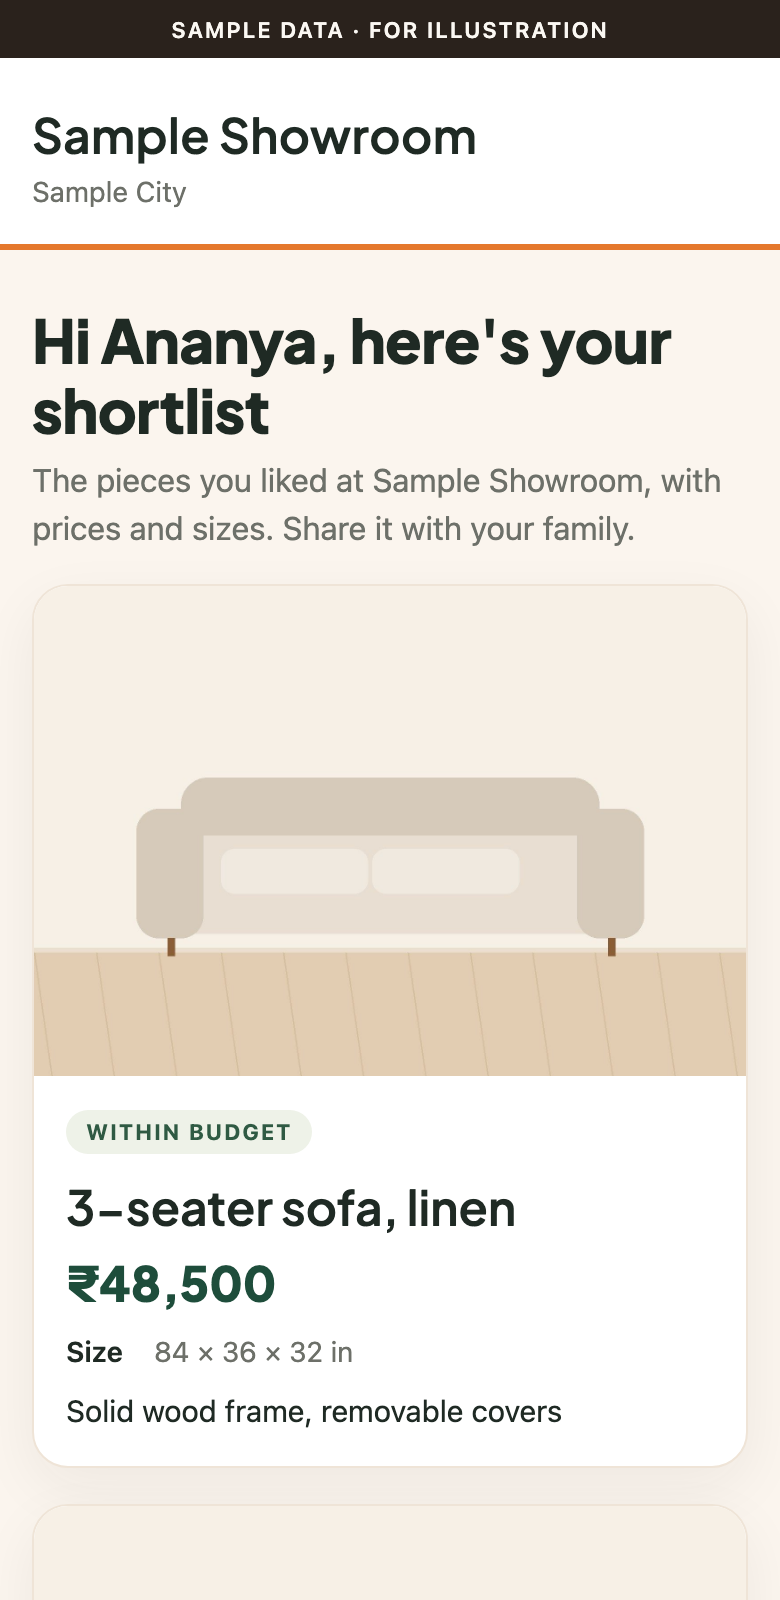
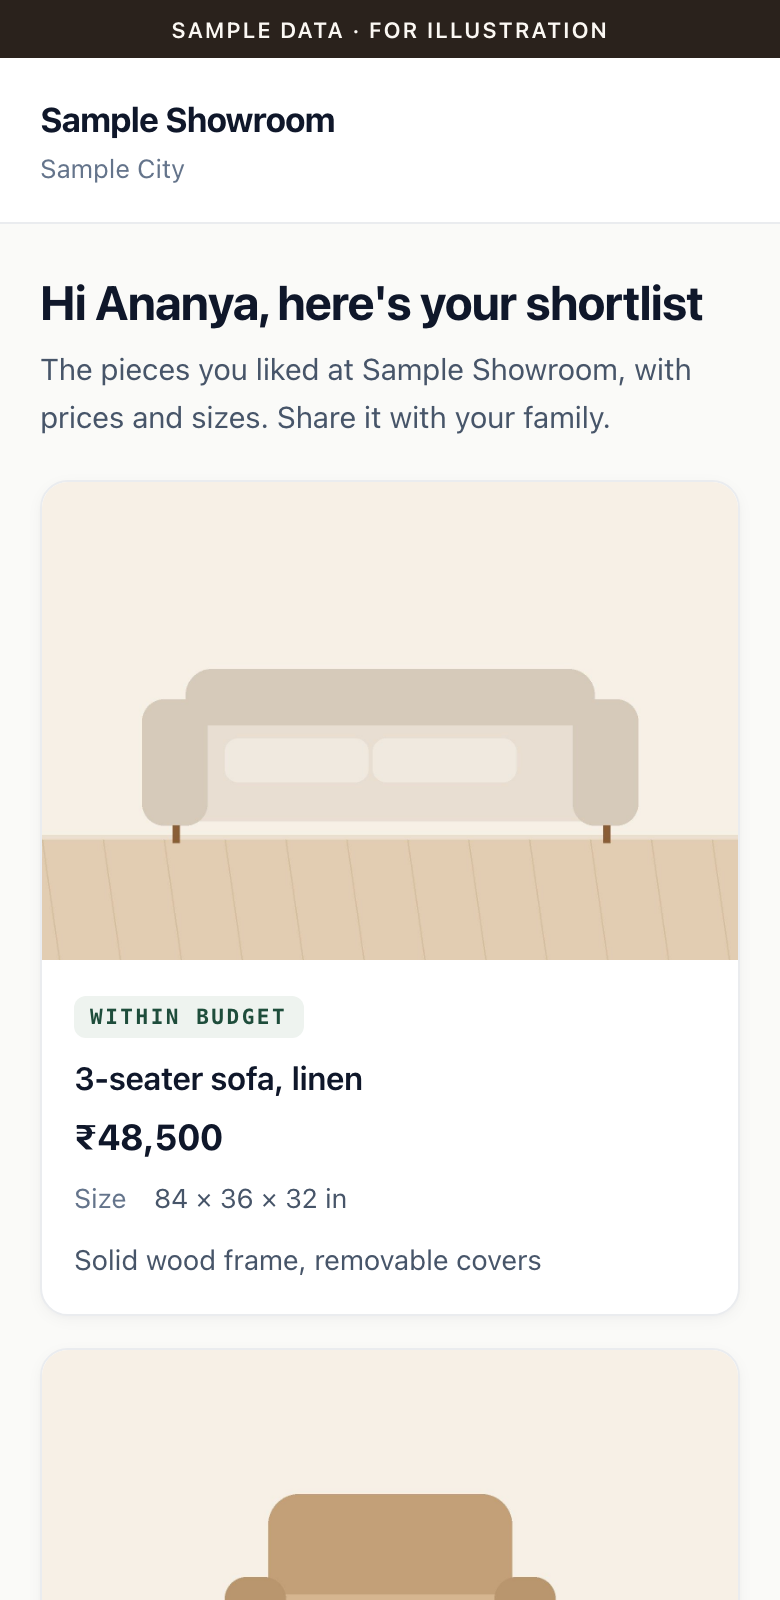
FurniTrail restyle, new screens, cleanup
FurniTrail sections in system type and site neutrals (green buttons, orange logo and
highlight only) with the re-captured phone screens; unused image removed.

diff --git a/assets/css/main.css b/assets/css/main.css
@@ -1800,7 +1800,7 @@ main table th { background: #F8FAFC; color: #1A1D24; }
    PRODUCT THEMES (2026-11-17): each product shows in its own app colours.
    Ideator pages stay white and grey; gold only on the logo dot and menu glow.
    ========================================================================= */
-[data-product="furnitrail"] { --p: #1E4D3B; --p-ink: #1F2A24; --p-soft: #FBF5EE; --p-line: #C9D3BD; --p-accent: #E5782C; --p-tag: #EEF2E8; }
+[data-product="furnitrail"] { --p: #1E4D3B; --p-ink: #14161B; --p-soft: #F8FAFC; --p-line: #E5E7EB; --p-accent: #E5782C; --p-tag: #EEF2E8; }
 [data-product="pollenrev"]  { --p: #3563D5; --p-ink: #1D3F73; --p-soft: #EEF3FD; --p-line: #B9DCFF; }
 [data-product] .btn-hero-primary { background: var(--p) !important; box-shadow: 0 8px 20px -10px var(--p); }
 [data-product] .btn-hero-primary:hover { background: var(--p-ink) !important; }
@@ -1877,7 +1877,7 @@ main [style*="font-family:var(--font-mono)"]:not([style*="background"]):not(code
 .pm-mark { display: block; flex: none; border-radius: 12px; }
 .pm-mark-tile { background: #FFFFFF; border: 1px solid #DCE6F8; padding: 4px; box-sizing: border-box; }
 .pm-word { font-weight: 700; letter-spacing: -0.02em; line-height: 1; }
-.pm-furnitrail { font-family: "Plus Jakarta Sans", var(--font-sans); font-weight: 800; letter-spacing: -0.02em; color: #1E4D3B; }
+.pm-furnitrail { font-family: var(--font-sans); font-weight: 700; letter-spacing: -0.02em; color: #14161B; }
 .pm-furnitrail span { color: #E5782C; }
 .pm-pollenrev { font-family: Georgia, "Iowan Old Style", serif; font-weight: 600; letter-spacing: -0.01em; color: #0A1F3D; }
 .pm-pollenrev span { color: #3563D5; }
@@ -1897,12 +1897,12 @@ main [style*="font-family:var(--font-mono)"]:not([style*="background"]):not(code
 .cta-choice-plus { width: 36px; height: 36px; flex: none; border-radius: 10px; border: 1.5px dashed #94A3B8; display: flex; align-items: center; justify-content: center; font-size: 20px; color: #475569; }
 
 /* FurniTrail: forest green + orange on cream, heavy sans headings (its own brand) */
-[data-product="furnitrail"] :is(h1.sec-title, h2.sec-title, h2, h3) { font-family: "Plus Jakarta Sans", var(--font-sans); font-weight: 800; letter-spacing: -0.02em; color: #1F2A24; }
+[data-product="furnitrail"] :is(h1.sec-title, h2.sec-title, h2, h3) { font-family: var(--font-sans); font-weight: 800; letter-spacing: -0.02em; color: #1F2A24; }
 [data-product="furnitrail"] .btn-hero-primary { background: #1E4D3B !important; box-shadow: 0 8px 20px -10px rgba(30, 77, 59, 0.6); }
 [data-product="furnitrail"] .btn-hero-primary:hover { background: #163A2C !important; }
-[data-product="furnitrail"] .sec-eyebrow { color: #E5782C !important; }
+[data-product="furnitrail"] .sec-eyebrow { color: #64748B !important; }
 [data-product="furnitrail"] .badge-pill, [data-product="furnitrail"] .pill-badge { color: #1E4D3B !important; }
-.ft-hl { color: #E5782C; background-image: linear-gradient(transparent 72%, rgba(229, 120, 44, 0.22) 72%); padding: 0 2px; }
+.ft-hl { color: #A94F16; background-image: linear-gradient(transparent 72%, rgba(229, 120, 44, 0.18) 72%); padding: 0 2px; }
 
 /* Screenshot frames: a quiet browser window around real product screens */
 .shot-frame { margin: 0; border-radius: 14px; overflow: hidden; background: #FFFFFF; border: 1px solid var(--p-line, #E5E7EB); box-shadow: 0 24px 50px -30px rgba(15, 23, 42, 0.45); }
@@ -1934,15 +1934,15 @@ main [style*="font-family:var(--font-mono)"]:not([style*="background"]):not(code
   transition: transform 0.5s cubic-bezier(0.16, 1, 0.3, 1);
 }
 .phone::before { content: ""; position: absolute; top: 18px; left: 50%; width: 64px; height: 6px; border-radius: 6px; transform: translateX(-50%); background: rgba(255, 255, 255, 0.14); z-index: 2; }
-.phone img { display: block; width: 100%; height: auto; border-radius: 29px; background: #FBF5EE; padding-top: 22px; box-sizing: border-box; }
+.phone img { display: block; width: 100%; height: auto; border-radius: 29px; background: #FFFFFF; padding-top: 22px; box-sizing: border-box; }
 .phone-card:hover .phone { transform: translateY(-6px); }
 .sample-chip {
   position: absolute; z-index: 3; top: 38px; right: 22px; font-size: 10.5px; font-weight: 600;
   color: #FFFFFF; background: rgba(31, 42, 36, 0.78); padding: 3px 8px; border-radius: 6px; letter-spacing: 0.01em;
 }
 .phone-card figcaption { margin-top: 22px; padding: 0 4px; font-size: 14.5px; line-height: 1.55; color: var(--text-secondary); }
-.phone-card figcaption strong { display: block; font-size: 17px; color: var(--text-primary); margin: 2px 0 4px; font-family: "Plus Jakarta Sans", var(--font-sans); font-weight: 800; letter-spacing: -0.01em; }
-.phone-kicker { font-family: Georgia, "Iowan Old Style", serif; font-style: italic; color: #E5782C; font-size: 15px; }
+.phone-card figcaption strong { display: block; font-size: 17px; color: var(--text-primary); margin: 2px 0 4px; font-family: var(--font-sans); font-weight: 800; letter-spacing: -0.01em; }
+.phone-kicker { font-family: Georgia, "Iowan Old Style", serif; font-style: italic; color: #64748B; font-size: 15px; }
 @media (max-width: 820px) {
   .phone-trio { grid-template-columns: 1fr; max-width: 340px; margin: 0 auto; gap: 48px; }
   .phone-card.is-raised { transform: none; }
@@ -2021,7 +2021,7 @@ a.blog-card:hover { transform: translateY(-3px); border-color: #CBD5E1; box-shad
 .blog-card-big .blog-card-title { font-size: clamp(22px, 2.6vw, 30px); }
 .blog-card-big .blog-card-dek { font-size: 16px; max-width: 70ch; }
 .blog-card-next { background: var(--bg-secondary); border-style: dashed; }
-.blog-card[data-cluster="furnitrail"] .blog-card-topic { color: #E5782C; }
+.blog-card[data-cluster="furnitrail"] .blog-card-topic { color: #A94F16; }
 .blog-card[data-cluster="pollenrev"] .blog-card-topic { color: #3563D5; }
 .post-related { margin-top: 48px; padding-top: 28px; border-top: 1px solid var(--border-light); }
 .post-related-head { display: flex; justify-content: space-between; align-items: baseline; gap: 12px; flex-wrap: wrap; margin-bottom: 14px; }

diff --git a/index.html b/index.html
@@ -24,7 +24,7 @@
   <meta name="theme-color" content="#FFFFFF">
 
   <!-- Stylesheet -->
-  <link rel="stylesheet" href="assets/css/main.css?v=20261117zd">
+  <link rel="stylesheet" href="assets/css/main.css?v=20261117ze">
 
   <!-- Structured Data (JSON-LD) -->
   <script type="application/ld+json">
@@ -372,7 +372,7 @@
 
         <!-- Middle featured card: FurniTrail -->
         <div class="prod-featured-box reveal reveal-scale delay-1" data-product="furnitrail">
-          <div class="prod-featured-img-wrap" style="background:#FBF5EE;">
+          <div class="prod-featured-img-wrap" style="background:#F8FAFC;">
             <img src="assets/images/products/furnitrail/furnitrail-today-app.png" alt="FurniTrail Today screen listing buyers to follow up (sample data)" loading="lazy" style="width:100%;height:100%;object-fit:cover;object-position:top center;display:block;">
             <span class="badge-float-left" style="background:rgba(26,29,36,0.92);">Early access open</span>
           </div>
@@ -623,6 +623,6 @@
     </div>
   </div>
 
-  <script src="assets/js/main.js?v=20261117zd"></script>
+  <script src="assets/js/main.js?v=20261117ze"></script>
 </body>
 </html>

diff --git a/blog/d2c-true-margin-per-order.html b/blog/d2c-true-margin-per-order.html
@@ -19,7 +19,7 @@
   <meta name="twitter:title" content="Your D2C brand's real problem isn't ads, it's true margin per order">
   <meta name="twitter:description" content="Many D2C brands can't see what each order earns after product, shipping, fees, returns and ads. How to work out true margin per order before you scale.">
   <meta name="twitter:image" content="https://ideatorlabs.github.io/og-image.png">
-  <link rel="stylesheet" href="../assets/css/main.css?v=20261117zd">
+  <link rel="stylesheet" href="../assets/css/main.css?v=20261117ze">
   <link rel="icon" href="../favicon.ico" sizes="any">
   <link rel="icon" href="/favicon.svg" type="image/svg+xml">
   <link rel="apple-touch-icon" href="../apple-touch-icon.png">
@@ -392,7 +392,7 @@
     </div>
   </div>
 
-  <script src="../assets/js/main.js?v=20261117zd"></script>
+  <script src="../assets/js/main.js?v=20261117ze"></script>
   <script>
     // Reading Progress Indicator
     window.addEventListener('scroll', () => {

diff --git a/blog/ca-firms-reclaim-hours-with-ai.html b/blog/ca-firms-reclaim-hours-with-ai.html
@@ -19,7 +19,7 @@
   <meta name="twitter:title" content="Where CA firms lose hours every week, and how AI gives them back">
   <meta name="twitter:description" content="CA firms lose hours to GST matching, chasing client documents and typing entries twice. Where the time goes, what AI can take over, and how to start.">
   <meta name="twitter:image" content="https://ideatorlabs.github.io/og-image.png">
-  <link rel="stylesheet" href="../assets/css/main.css?v=20261117zd">
+  <link rel="stylesheet" href="../assets/css/main.css?v=20261117ze">
   <link rel="icon" href="../favicon.ico" sizes="any">
   <link rel="icon" href="/favicon.svg" type="image/svg+xml">
   <link rel="apple-touch-icon" href="../apple-touch-icon.png">
@@ -391,7 +391,7 @@
     </div>
   </div>
 
-  <script src="../assets/js/main.js?v=20261117zd"></script>
+  <script src="../assets/js/main.js?v=20261117ze"></script>
   <script>
     // Reading Progress Indicator
     window.addEventListener('scroll', () => {

diff --git a/404.html b/404.html
@@ -7,7 +7,7 @@
   <meta name="description" content="This page doesn't exist or has moved. Find Ideator Labs products, advisory, blog articles and contact details from the links on this page.">
   <meta name="robots" content="noindex">
   <!-- Stylesheet -->
-  <link rel="stylesheet" href="/assets/css/main.css?v=20261117zd">
+  <link rel="stylesheet" href="/assets/css/main.css?v=20261117ze">
   <link rel="icon" href="/favicon.ico" sizes="any">
   <link rel="icon" href="/favicon.svg" type="image/svg+xml">
   <link rel="apple-touch-icon" href="/apple-touch-icon.png">
@@ -138,6 +138,6 @@
     </div>
   </div>
 
-  <script src="/assets/js/main.js?v=20261117zd"></script>
+  <script src="/assets/js/main.js?v=20261117ze"></script>
 </body>
 </html>

diff --git a/blog/how-we-write/index.html b/blog/how-we-write/index.html
@@ -13,7 +13,7 @@
   <meta property="og:url" content="https://ideatorlabs.github.io/blog/how-we-write/">
   <meta property="og:image" content="https://ideatorlabs.github.io/og-image.png">
   <meta name="twitter:card" content="summary_large_image">
-  <link rel="stylesheet" href="/assets/css/main.css?v=20261117zd">
+  <link rel="stylesheet" href="/assets/css/main.css?v=20261117ze">
   <link rel="icon" href="/favicon.ico" sizes="any">
   <link rel="icon" href="/favicon.svg" type="image/svg+xml">
   <link rel="apple-touch-icon" href="/apple-touch-icon.png">
@@ -202,6 +202,6 @@
     </div>
   </div>
 
-  <script src="/assets/js/main.js?v=20261117zd"></script>
+  <script src="/assets/js/main.js?v=20261117ze"></script>
 </body>
 </html>

diff --git a/blog/ca-firms/index.html b/blog/ca-firms/index.html
@@ -13,7 +13,7 @@
   <meta property="og:url" content="https://ideatorlabs.github.io/blog/ca-firms/">
   <meta property="og:image" content="https://ideatorlabs.github.io/og-image.png">
   <meta name="twitter:card" content="summary_large_image">
-  <link rel="stylesheet" href="/assets/css/main.css?v=20261117zd">
+  <link rel="stylesheet" href="/assets/css/main.css?v=20261117ze">
   <link rel="icon" href="/favicon.ico" sizes="any">
   <link rel="icon" href="/favicon.svg" type="image/svg+xml">
   <link rel="apple-touch-icon" href="/apple-touch-icon.png">
@@ -204,6 +204,6 @@
     </div>
   </div>
 
-  <script src="/assets/js/main.js?v=20261117zd"></script>
+  <script src="/assets/js/main.js?v=20261117ze"></script>
 </body>
 </html>

diff --git a/blog/d2c/index.html b/blog/d2c/index.html
@@ -13,7 +13,7 @@
   <meta property="og:url" content="https://ideatorlabs.github.io/blog/d2c/">
   <meta property="og:image" content="https://ideatorlabs.github.io/og-image.png">
   <meta name="twitter:card" content="summary_large_image">
-  <link rel="stylesheet" href="/assets/css/main.css?v=20261117zd">
+  <link rel="stylesheet" href="/assets/css/main.css?v=20261117ze">
   <link rel="icon" href="/favicon.ico" sizes="any">
   <link rel="icon" href="/favicon.svg" type="image/svg+xml">
   <link rel="apple-touch-icon" href="/apple-touch-icon.png">
@@ -204,6 +204,6 @@
     </div>
   </div>
 
-  <script src="/assets/js/main.js?v=20261117zd"></script>
+  <script src="/assets/js/main.js?v=20261117ze"></script>
 </body>
 </html>

diff --git a/blog/index.html b/blog/index.html
@@ -13,7 +13,7 @@
   <meta property="og:url" content="https://ideatorlabs.github.io/blog/">
   <meta property="og:image" content="https://ideatorlabs.github.io/og-image.png">
   <meta name="twitter:card" content="summary_large_image">
-  <link rel="stylesheet" href="/assets/css/main.css?v=20261117zd">
+  <link rel="stylesheet" href="/assets/css/main.css?v=20261117ze">
   <link rel="icon" href="/favicon.ico" sizes="any">
   <link rel="icon" href="/favicon.svg" type="image/svg+xml">
   <link rel="apple-touch-icon" href="/apple-touch-icon.png">
@@ -257,6 +257,6 @@
     </div>
   </div>
 
-  <script src="/assets/js/main.js?v=20261117zd"></script>
+  <script src="/assets/js/main.js?v=20261117ze"></script>
 </body>
 </html>

diff --git a/privacy.html b/privacy.html
@@ -15,7 +15,7 @@
   <meta property="og:image" content="https://ideatorlabs.github.io/og-image.png">
   <meta name="twitter:card" content="summary_large_image">
   <!-- Stylesheet -->
-  <link rel="stylesheet" href="assets/css/main.css?v=20261117zd">
+  <link rel="stylesheet" href="assets/css/main.css?v=20261117ze">
   <link rel="icon" href="favicon.ico" sizes="any">
   <link rel="icon" href="/favicon.svg" type="image/svg+xml">
   <link rel="apple-touch-icon" href="apple-touch-icon.png">
@@ -181,6 +181,6 @@
     </div>
   </div>
 
-  <script src="assets/js/main.js?v=20261117zd"></script>
+  <script src="assets/js/main.js?v=20261117ze"></script>
 </body>
 </html>

diff --git a/security.html b/security.html
@@ -15,7 +15,7 @@
   <meta property="og:image" content="https://ideatorlabs.github.io/og-image.png">
   <meta name="twitter:card" content="summary_large_image">
   <!-- Stylesheet -->
-  <link rel="stylesheet" href="assets/css/main.css?v=20261117zd">
+  <link rel="stylesheet" href="assets/css/main.css?v=20261117ze">
   <link rel="icon" href="favicon.ico" sizes="any">
   <link rel="icon" href="/favicon.svg" type="image/svg+xml">
   <link rel="apple-touch-icon" href="apple-touch-icon.png">
@@ -170,6 +170,6 @@
     </div>
   </div>
 
-  <script src="assets/js/main.js?v=20261117zd"></script>
+  <script src="assets/js/main.js?v=20261117ze"></script>
 </body>
 </html>

diff --git a/terms.html b/terms.html
@@ -15,7 +15,7 @@
   <meta property="og:image" content="https://ideatorlabs.github.io/og-image.png">
   <meta name="twitter:card" content="summary_large_image">
   <!-- Stylesheet -->
-  <link rel="stylesheet" href="assets/css/main.css?v=20261117zd">
+  <link rel="stylesheet" href="assets/css/main.css?v=20261117ze">
   <link rel="icon" href="favicon.ico" sizes="any">
   <link rel="icon" href="/favicon.svg" type="image/svg+xml">
   <link rel="apple-touch-icon" href="apple-touch-icon.png">
@@ -176,6 +176,6 @@
     </div>
   </div>
 
-  <script src="assets/js/main.js?v=20261117zd"></script>
+  <script src="assets/js/main.js?v=20261117ze"></script>
 </body>
 </html>
